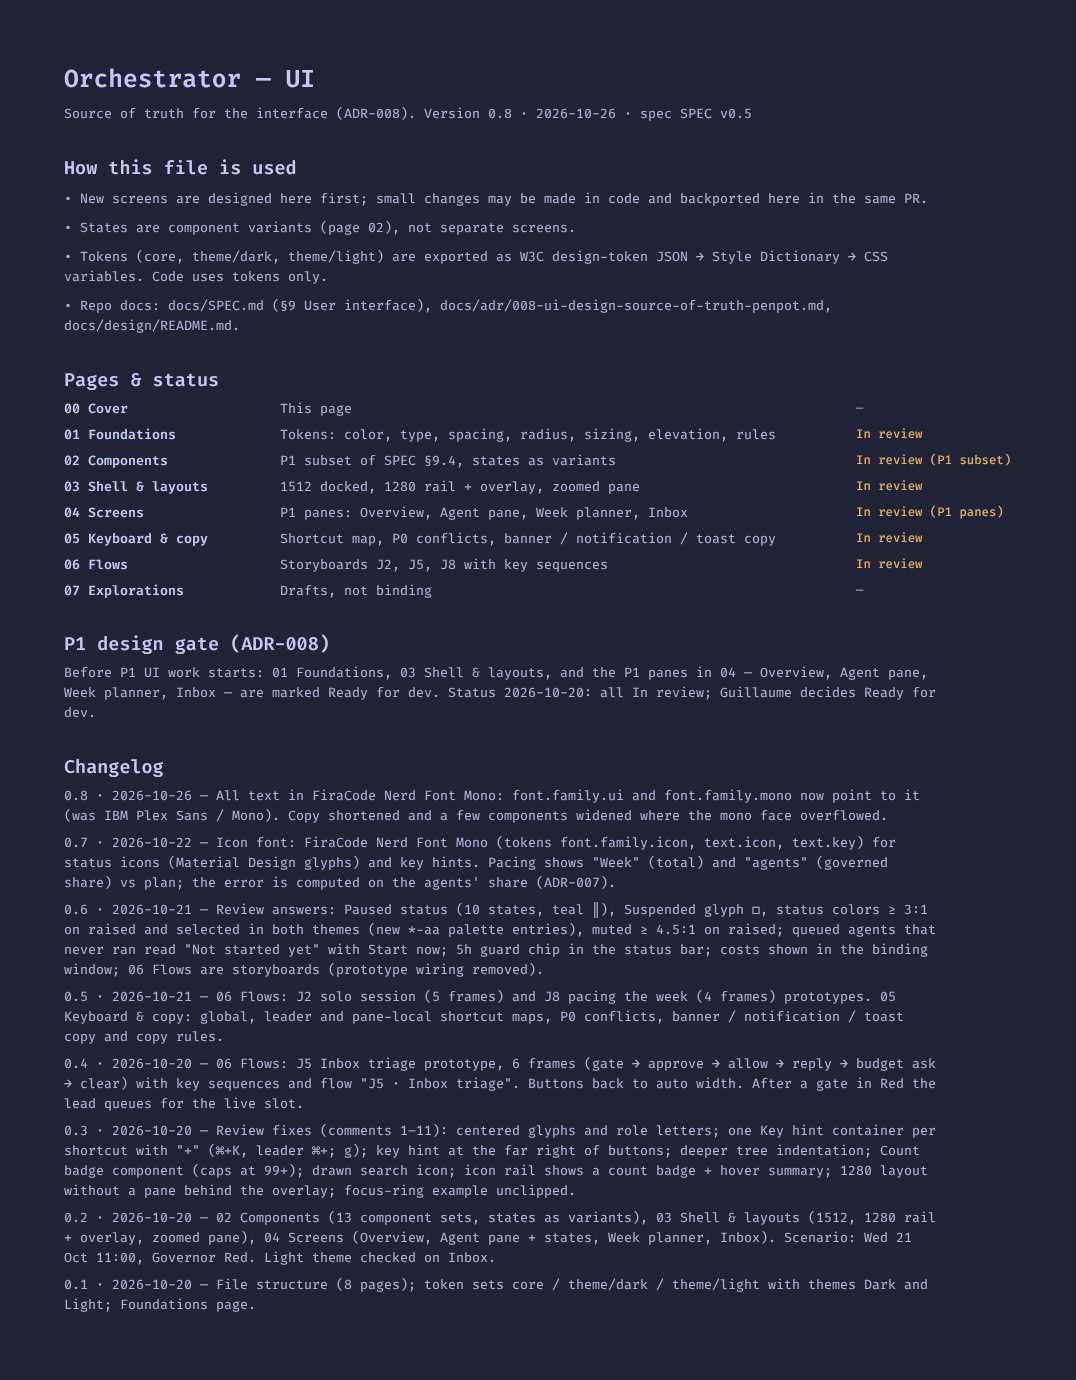
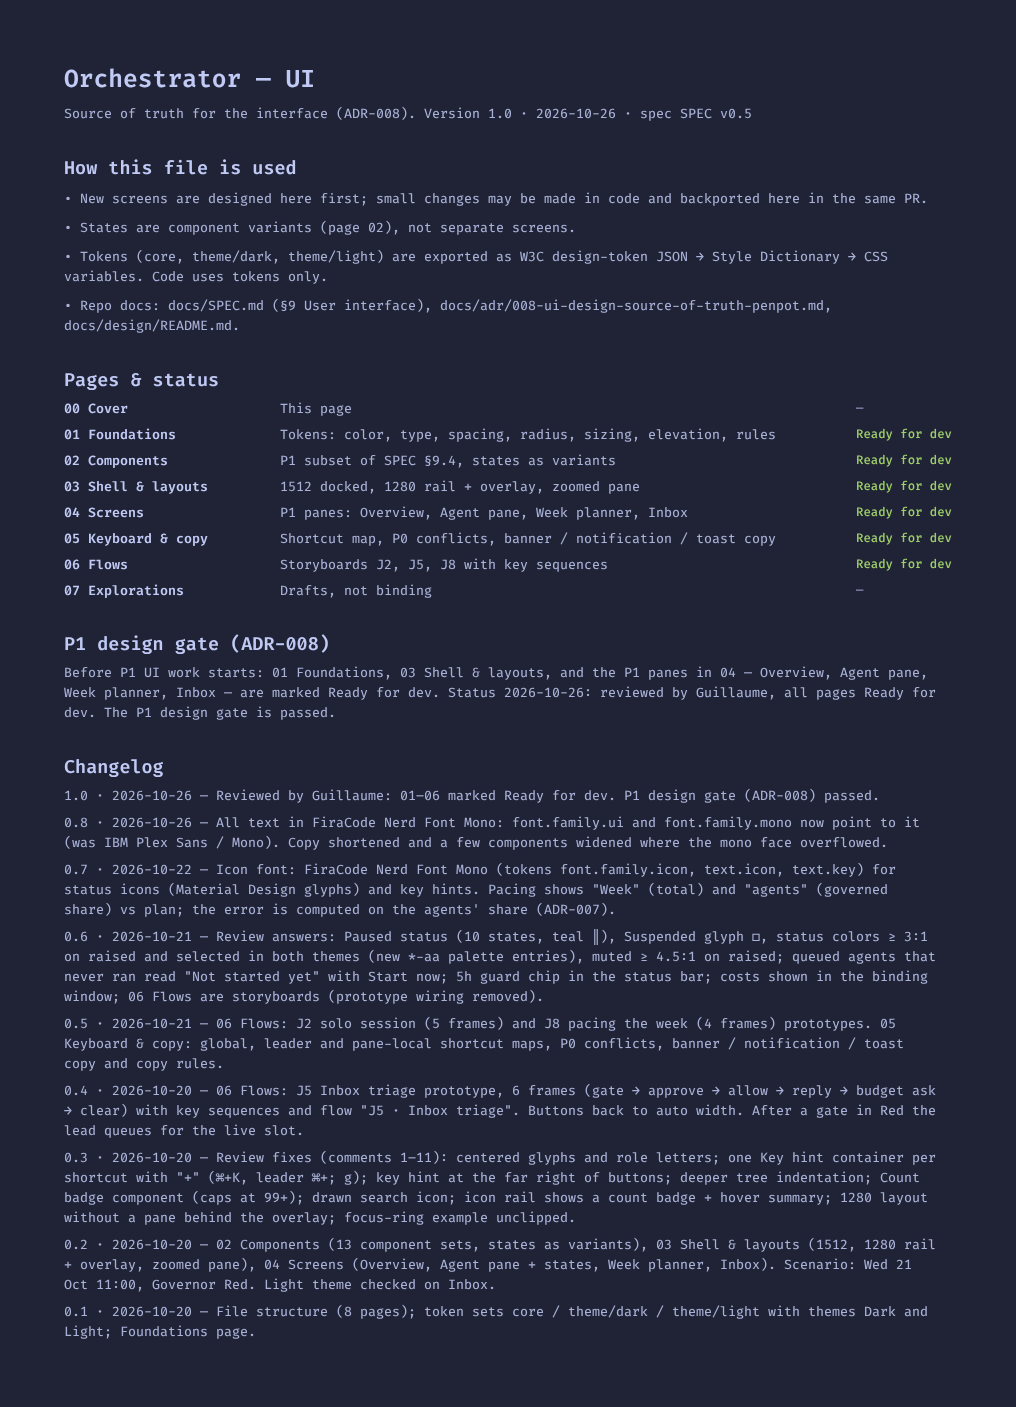
docs(design): all pages Ready for dev, P1 design gate passed
Reviewed by Guillaume on 2026-10-26. Cover v1.0.

diff --git a/docs/design/README.md b/docs/design/README.md
@@ -7,15 +7,15 @@ The UI source of truth is the Penpot file **Orchestrator** on design.penpot.app 
 | Page | Content | Status |
 |---|---|---|
 | 00 Cover | Purpose, page index, P1 gate, changelog | Done |
-| 01 Foundations | Tokens: color, type, spacing, radius, sizing, elevation, rules | In review |
-| 02 Components | P1 subset of SPEC §9.4 (14 component sets), states as variants | In review (P1 subset) |
-| 03 Shell & layouts | Shell at 1512 (docked inspector), 1280 (icon rail + overlay inspector), zoomed pane; 1728 not drawn | In review |
-| 04 Screens | P1 panes: Overview, Agent pane (+ states), Week planner, Inbox | In review (P1 panes) |
-| 05 Keyboard & copy | Global, leader and pane-local shortcut maps; P0 conflicts; banner, notification and toast copy; copy rules | In review |
-| 06 Flows | Storyboards (annotated frames, no clickable prototype): J2 solo session (5 frames), J5 Inbox triage (6), J8 pacing the week (4) | In review |
+| 01 Foundations | Tokens: color, type, spacing, radius, sizing, elevation, rules | Ready for dev |
+| 02 Components | P1 subset of SPEC §9.4 (14 component sets), states as variants | Ready for dev |
+| 03 Shell & layouts | Shell at 1512 (docked inspector), 1280 (icon rail + overlay inspector), zoomed pane; 1728 not drawn | Ready for dev |
+| 04 Screens | P1 panes: Overview, Agent pane (+ states), Week planner, Inbox | Ready for dev |
+| 05 Keyboard & copy | Global, leader and pane-local shortcut maps; P0 conflicts; banner, notification and toast copy; copy rules | Ready for dev |
+| 06 Flows | Storyboards (annotated frames, no clickable prototype): J2 solo session (5 frames), J5 Inbox triage (6), J8 pacing the week (4) | Ready for dev |
 | 07 Explorations | Drafts, not binding | — |
 
-**P1 gate:** before P1 UI work starts, 01, 03 and the P1 panes in 04 (Overview, Agent pane, Week planner, Inbox) are marked ready for dev on `00 Cover`. As of 2026-10-20 they are all **In review**; Guillaume decides Ready for dev. Open questions and spec gaps from the design pass: [p1-design-notes.md](p1-design-notes.md).
+**P1 gate:** before P1 UI work starts, 01, 03 and the P1 panes in 04 (Overview, Agent pane, Week planner, Inbox) are marked ready for dev on `00 Cover`. Reviewed by Guillaume on 2026-10-26: all pages are **Ready for dev** and the P1 design gate is passed. Open questions and spec gaps from the design pass: [p1-design-notes.md](p1-design-notes.md).
 
 ## Screenshots
 
